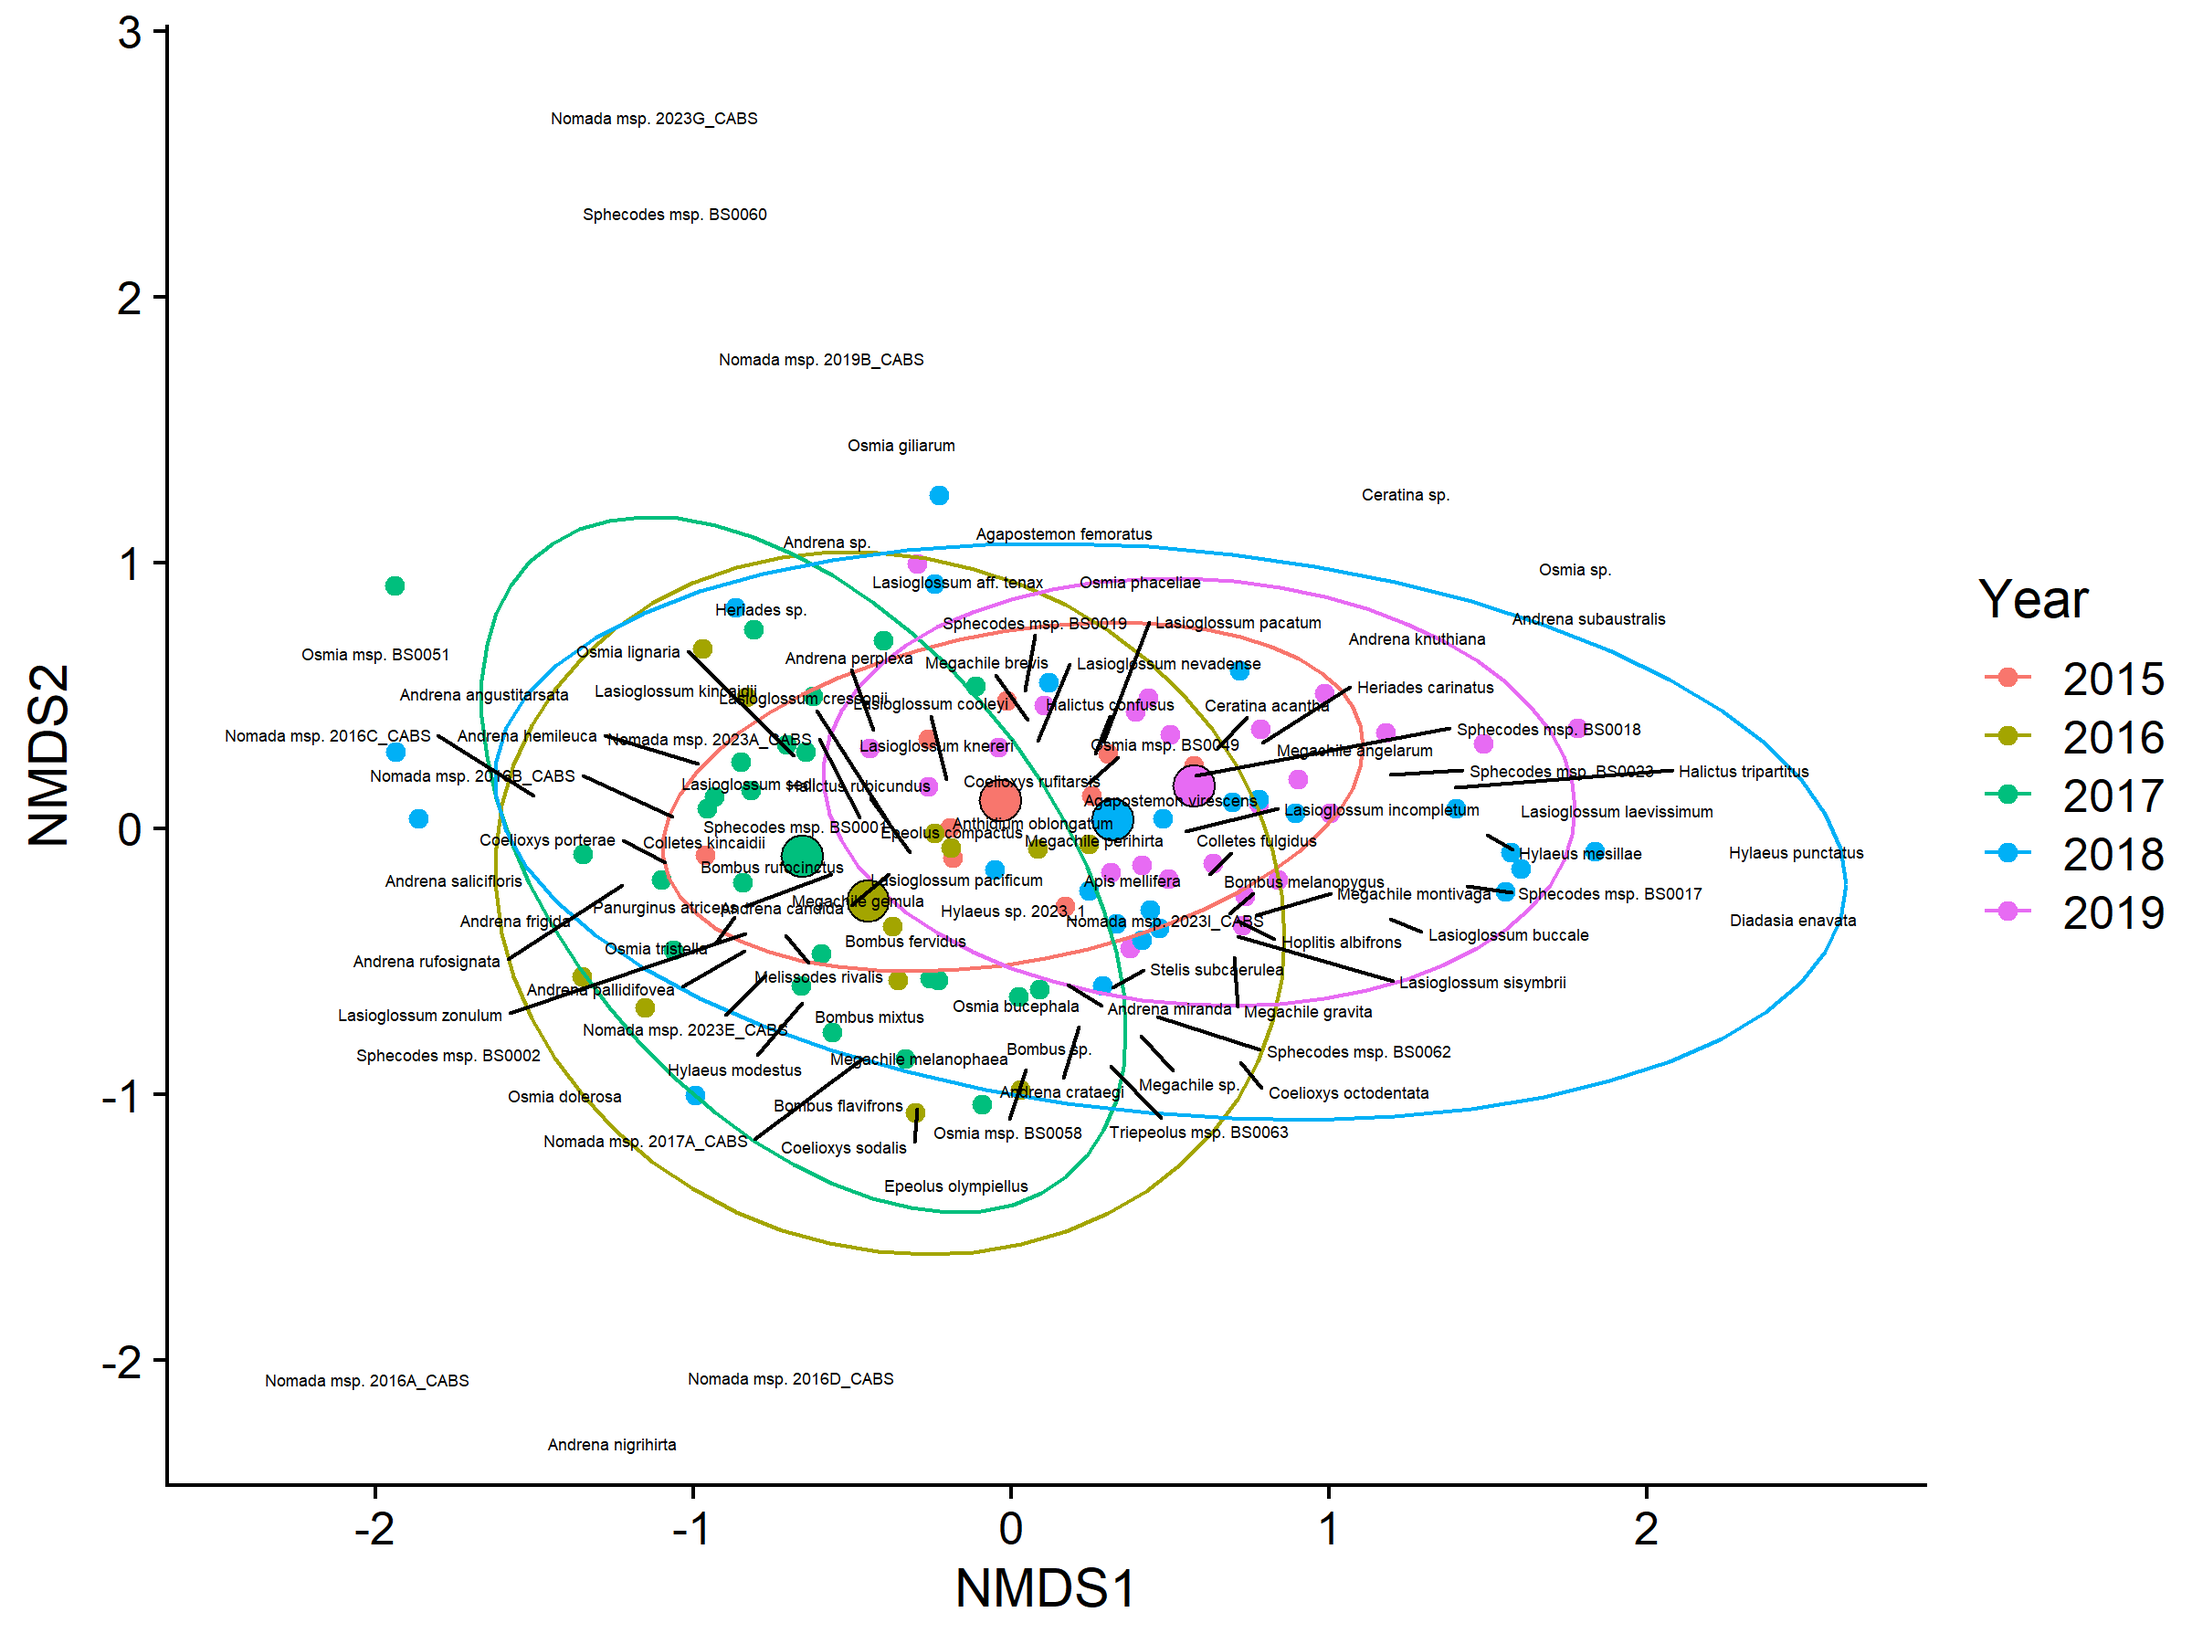
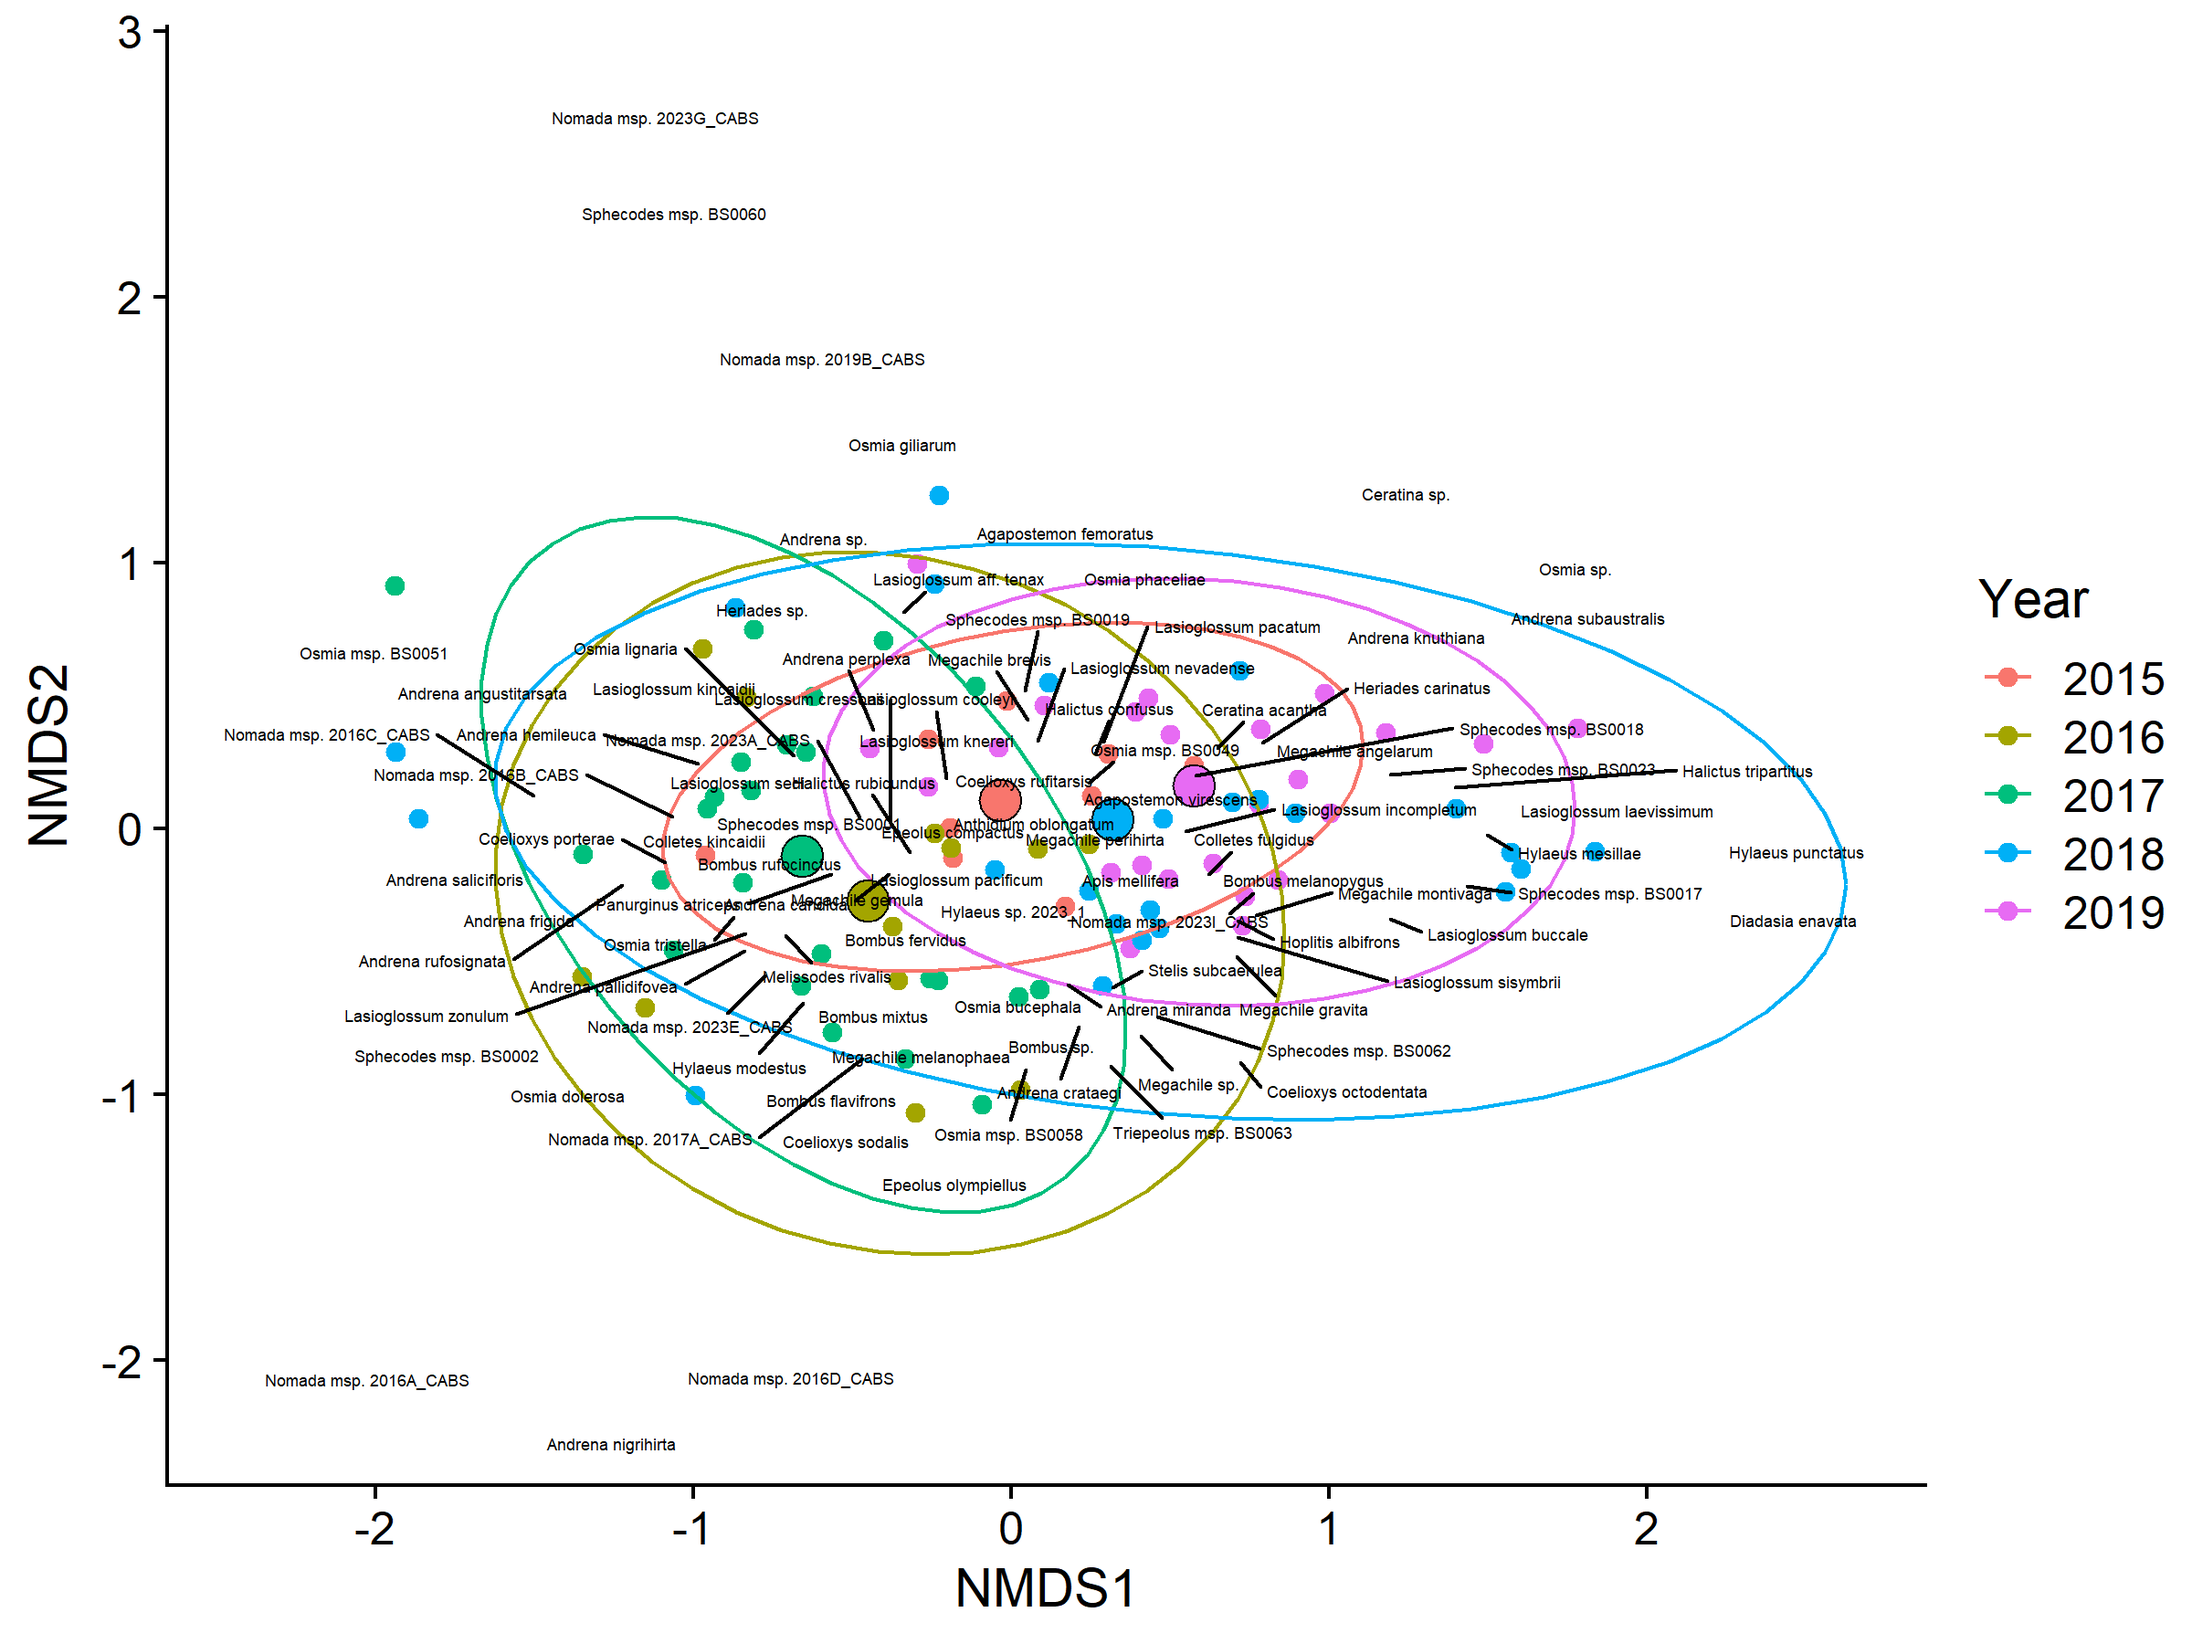
added NMDS and permanova tests for year/site combinations.

diff --git a/analyses/BeeSearch1.md b/analyses/BeeSearch1.md
@@ -374,6 +374,74 @@ across years.
 
 # What bee groups drive changes in abundance from early to mid to late year?
 
+    ## Permutation test for adonis under reduced model
+    ## Terms added sequentially (first to last)
+    ## Permutation: free
+    ## Number of permutations: 999
+    ## 
+    ## adonis2(formula = site_matrix ~ Site + Year, data = site_meta, method = "bray")
+    ##          Df SumOfSqs      R2      F Pr(>F)    
+    ## Site      2   1.0216 0.04365 1.8410  0.008 ** 
+    ## Year      1   1.2940 0.05529 4.6636  0.001 ***
+    ## Residual 76  21.0878 0.90105                  
+    ## Total    79  23.4035 1.00000                  
+    ## ---
+    ## Signif. codes:  0 '***' 0.001 '**' 0.01 '*' 0.05 '.' 0.1 ' ' 1
+    ## 
+    ## Permutation test for homogeneity of multivariate dispersions
+    ## Permutation: free
+    ## Number of permutations: 999
+    ## 
+    ## Response: Distances
+    ##           Df  Sum Sq  Mean Sq      F N.Perm Pr(>F)    
+    ## Groups     4 0.64073 0.160183 16.285    999  0.001 ***
+    ## Residuals 75 0.73772 0.009836                         
+    ## ---
+    ## Signif. codes:  0 '***' 0.001 '**' 0.01 '*' 0.05 '.' 0.1 ' ' 1
+    ## 
+    ## Permutation test for homogeneity of multivariate dispersions
+    ## Permutation: free
+    ## Number of permutations: 999
+    ## 
+    ## Response: Distances
+    ##           Df Sum Sq  Mean Sq      F N.Perm Pr(>F)  
+    ## Groups     2 0.1789 0.089449 4.3768    999  0.018 *
+    ## Residuals 77 1.5736 0.020437                       
+    ## ---
+    ## Signif. codes:  0 '***' 0.001 '**' 0.01 '*' 0.05 '.' 0.1 ' ' 1
+    ## Run 0 stress 0.1553111 
+    ## Run 1 stress 0.1510452 
+    ## ... New best solution
+    ## ... Procrustes: rmse 0.07413382  max resid 0.2395836 
+    ## Run 2 stress 0.1592268 
+    ## Run 3 stress 0.1614855 
+    ## Run 4 stress 0.1564014 
+    ## Run 5 stress 0.1569258 
+    ## Run 6 stress 0.1578329 
+    ## Run 7 stress 0.1480831 
+    ## ... New best solution
+    ## ... Procrustes: rmse 0.08366469  max resid 0.2758437 
+    ## Run 8 stress 0.149421 
+    ## Run 9 stress 0.1472032 
+    ## ... New best solution
+    ## ... Procrustes: rmse 0.06580304  max resid 0.442211 
+    ## Run 10 stress 0.1480685 
+    ## Run 11 stress 0.1524812 
+    ## Run 12 stress 0.1521472 
+    ## Run 13 stress 0.1543276 
+    ## Run 14 stress 0.1520092 
+    ## Run 15 stress 0.1518745 
+    ## Run 16 stress 0.1608472 
+    ## Run 17 stress 0.1599767 
+    ## Run 18 stress 0.1551282 
+    ## Run 19 stress 0.1528374 
+    ## Run 20 stress 0.1536999 
+    ## *** Best solution was not repeated -- monoMDS stopping criteria:
+    ##     17: no. of iterations >= maxit
+    ##      3: stress ratio > sratmax
+
+![](BeeSearch1_files/figure-gfm/nmds_all-1.png)<!-- -->
+
 NMDS 2017
 
     ## Permutation test for adonis under reduced model
